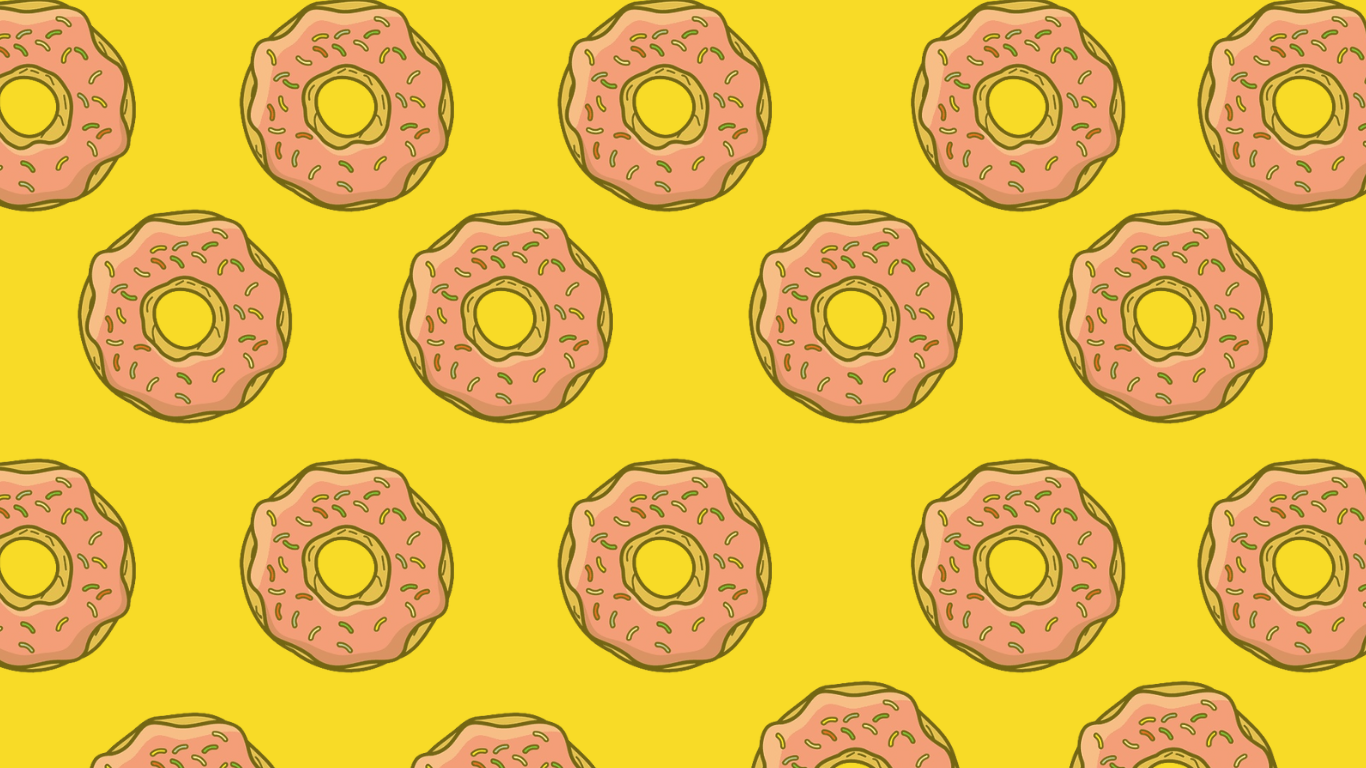
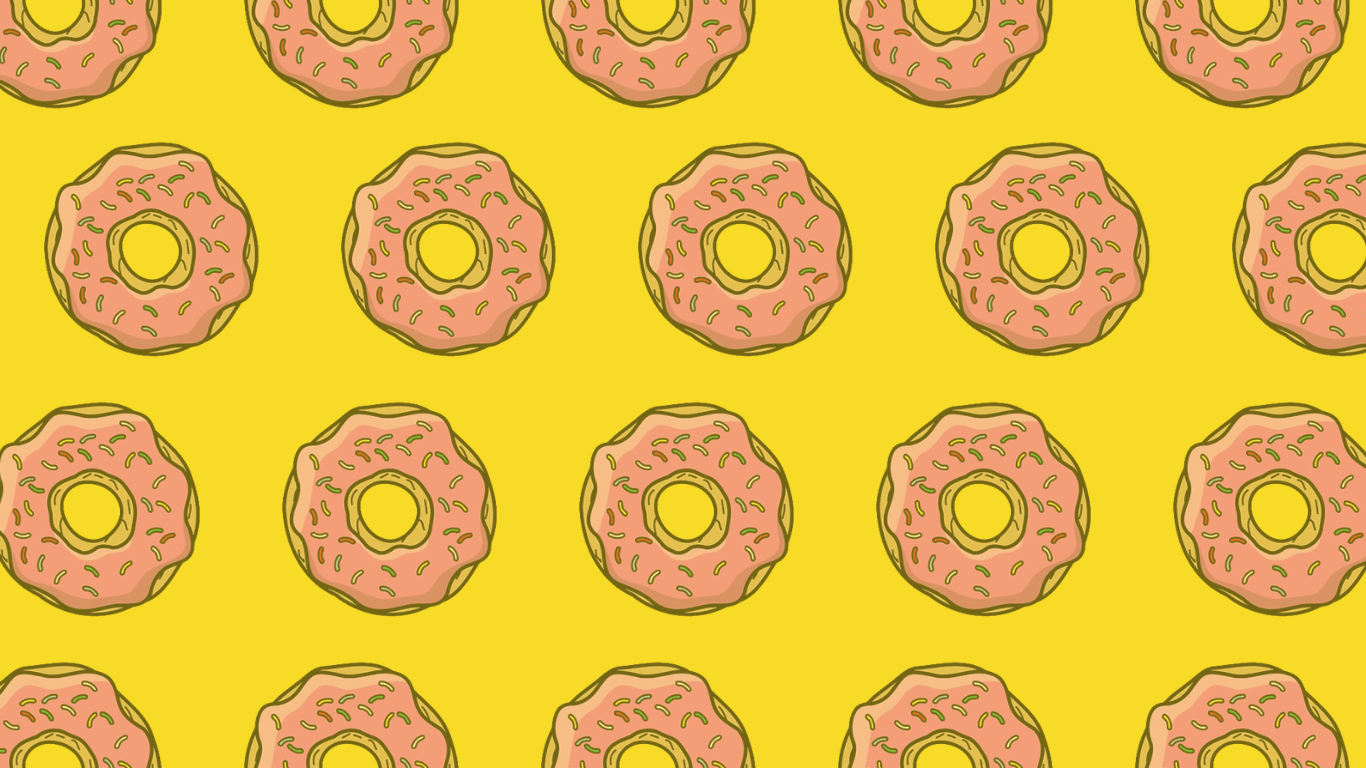
2

diff --git a/Script/script.js b/Script/script.js
@@ -1,41 +1,90 @@
-let pagina = 1;
 const btnAnterior = document.getElementById('btnAnterior');
 const btnSiguiente = document.getElementById('btnSiguiente');
 
-btnSiguiente.addEventListener('click', () => {
-	if(pagina < 1000){
-		pagina += 1;
-		"cargarPeliculas();"
-	}
-});
+btnSiguiente.style.display = 'none';
+btnAnterior.style.display = 'none'; 
 
-btnAnterior.addEventListener('click', () => {
-	if(pagina > 1){
-		pagina -= 1;
-		"cargarPeliculas();"
-	}
-});
+// Almacena los personajes mostrados
+const personajesMostrados = {};
 
-const cargarPersonajes =async ()=>{
-    try{
-    const respuesta = await fetch('https://thesimpsonsquoteapi.glitch.me/quotes?count=10');
-    
-    console.log(respuesta);
-    if(respuesta.status === 200){
-        const datos = await respuesta.json();
+const cargarCitas = async () => {
+    try {
+        const respuesta = await fetch(`https://thesimpsonsquoteapi.glitch.me/quotes?count=10000`);
 
-        let personajes = '';
-        datos.forEach(personaje => {
-           
-        });
-        document.getElementById('contenedor').innerHTML = personajes;
-    }else if(respuesta.status === 401){
-        console.log("Error obteniendo un personaje");
-    }
+        console.log(respuesta);
 
-    
-    } catch(error){
-        console.log(error);
+        if (respuesta.ok) {
+            const datos = await respuesta.json();
+
+            let personajesHTML = ''; // Almacena las citas HTML de todos los personajes
+
+            datos.forEach(personaje => {
+                // Verifica si el personaje ya ha sido mostrado antes
+                if (!personajesMostrados[personaje.character]) {
+                    personajesHTML += `
+                        <div class="personaje">
+                            <h3 class="name">${personaje.character}</h3>
+                            <img class="imagen" src="${personaje.image}" alt="${personaje.character}">
+                            <p class="quote">${personaje.quote}</p>
+                        </div>
+                    `;
+                    // Marca el personaje como mostrado
+                    personajesMostrados[personaje.character] = true;
+                }
+            });
+
+            // Muestra todos los personajes al inicio
+            document.getElementById('contenedor').innerHTML = personajesHTML;
+
+            // Actualiza las citas gradualmente cada 5 segundos
+            setInterval(actualizarCitas, 5000);
+
+        } else {
+            console.log('Hubo un error al cargar los personajes');
+        }
+
+    } catch (error) {
+        console.log('Hubo un error al cargar los personajes:', error);
     }
 }
-cargarPersonajes();
+
+// Función para cargar nuevas citas y agregarlas a los personajes mostrados
+const actualizarCitas = async () => {
+    try {
+        const respuesta = await fetch(`https://thesimpsonsquoteapi.glitch.me/quotes?count=10000`);
+
+        console.log(respuesta);
+
+        if (respuesta.ok) {
+            const datos = await respuesta.json();
+
+            datos.forEach(personaje => {
+                // Verifica si el personaje ya ha sido mostrado antes
+                if (!personajesMostrados[personaje.character]) {
+                    const nuevoPersonajeHTML = `
+                        <div class="personaje">
+                            <h3 class="name">${personaje.character}</h3>
+                            <img class="imagen" src="${personaje.image}" alt="${personaje.character}">
+                            <div class"quote">
+                            <p class=>${personaje.quote}</p>
+                            </div>
+                        </div>
+                    `;
+                    // Agrega el nuevo personaje al contenedor gradualmente
+                    document.getElementById('contenedor').innerHTML += nuevoPersonajeHTML;
+                    // Marca el personaje como mostrado
+                    personajesMostrados[personaje.character] = true;
+                }
+            });
+
+        } else {
+            console.log('Hubo un error al cargar los personajes');
+        }
+
+    } catch (error) {
+        console.log('Hubo un error al cargar los personajes:', error);
+    }
+}
+
+// Inicia la carga de citas
+cargarCitas();

diff --git a/Styles/styles.css b/Styles/styles.css
@@ -7,8 +7,8 @@
     
 }
 body{
-    background-image: url('/intro-to-asyncronism-maikil09/Images/font.png'); 
-    background-size: cover;
+    background-image: url('/Images/font.png'); 
+    background-size:contain;
     font-family: "Rock Salt", cursive;
     display: flex;
     justify-content: center;
@@ -33,7 +33,7 @@ body{
 
 	display: grid;
 	grid-template-columns: repeat(2, 1fr);
-	gap: 40px;
+	gap: 20px;
 }
 .buscar{
     display: flex;
@@ -83,4 +83,21 @@ body{
 
 .paginacion button:hover {
 	background: #f8db27;
+}
+.personaje{
+    border: 5px #2f64d6 solid;
+    border-radius: 30px;
+    width: 100%;
+    height: 100%;
+}
+.personaje .imagen{
+    width: 40%;
+    height: auto;
+}
+.quote{
+    border-radius: 30px;
+    text-align: center;
+    width: 100%;
+    padding: auto;
+  
 }

diff --git a/index.html b/index.html
@@ -11,14 +11,14 @@
 <body>
     <div class="fondo">
         <div class="title">
-            <img src="/intro-to-asyncronism-maikil09/Images/image.png" alt="titulo de los simpson">
+            <img src="./Images/image.png" alt="titulo de los simpson">
         </div> 
         <div class="contenedor" id="contenedor">
 
         </div>
     
     </div>
-
+    
     <div class="paginacion">
 		<button id="btnAnterior">Anterior</button>
 
